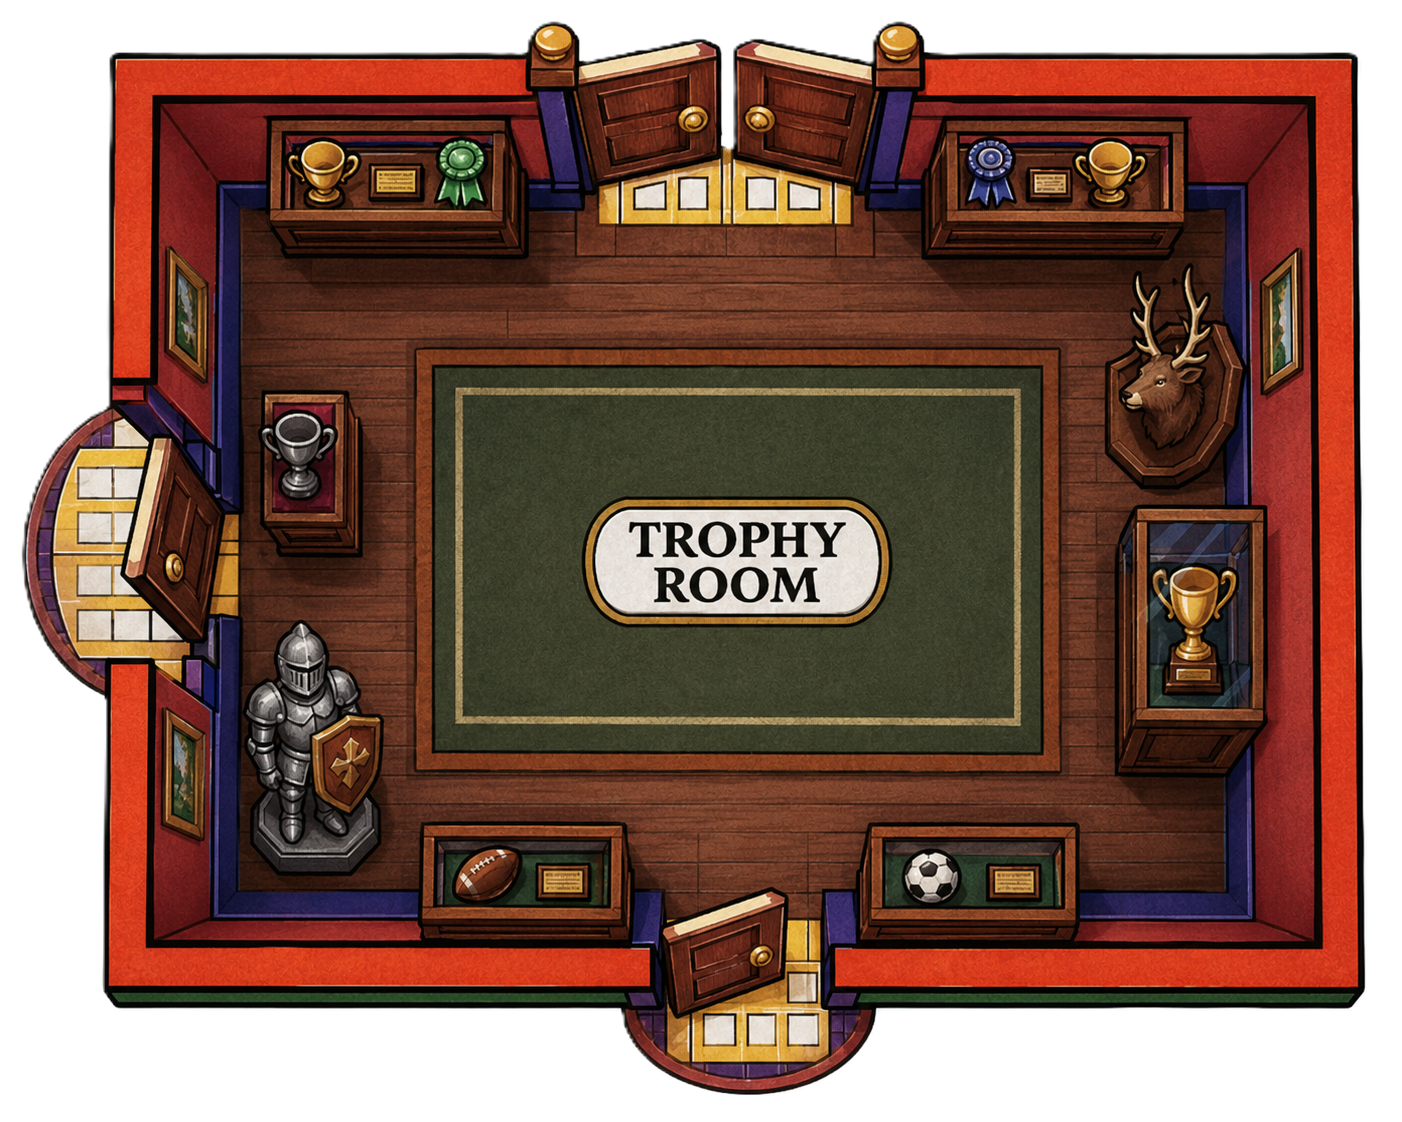
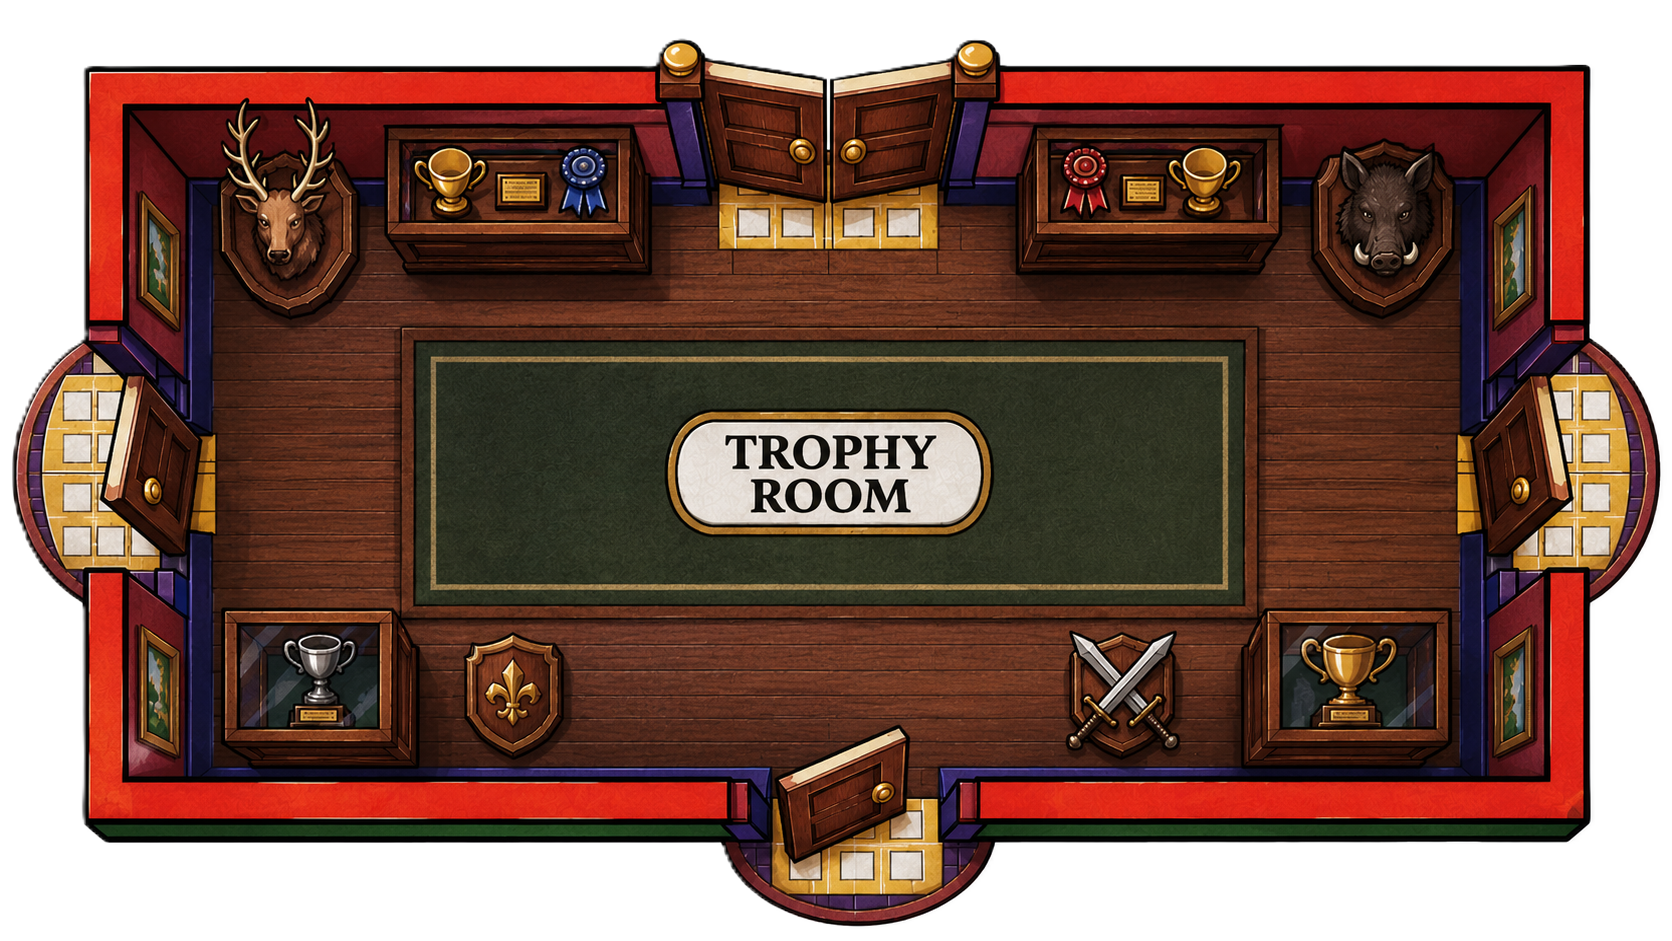
Fix: in-game actions silently ignored (withGame keyed by socket.id)
withGame resolved the room with findRoomByOccupant(socket.id), but rooms and
players are keyed by the stable clientId (since the M9 reconnection work). The
lookup always missed, so every human in-game intent — roll, move, suggest,
reveal, accuse, end turn — was silently dropped. Most visibly, clicking
"Reveal Card" to disprove a suggestion did nothing. Resolve through cid(socket)
like every other handler.

diff --git a/server/src/index.ts b/server/src/index.ts
@@ -120,7 +120,8 @@ function broadcastGame(room: Room): void {
 
 /** Run an in-game turn intent for the requesting socket, with error reporting. */
 function withGame(socket: Socket, fn: (room: Room, g: GameState) => GameState): void {
-  const room = findRoomByOccupant(socket.id);
+  // Rooms/players are keyed by the stable clientId (not socket.id), so resolve through cid().
+  const room = findRoomByOccupant(cid(socket));
   if (!room?.game || room.game.phase !== 'play') return;
   try {
     room.game = fn(room, room.game);